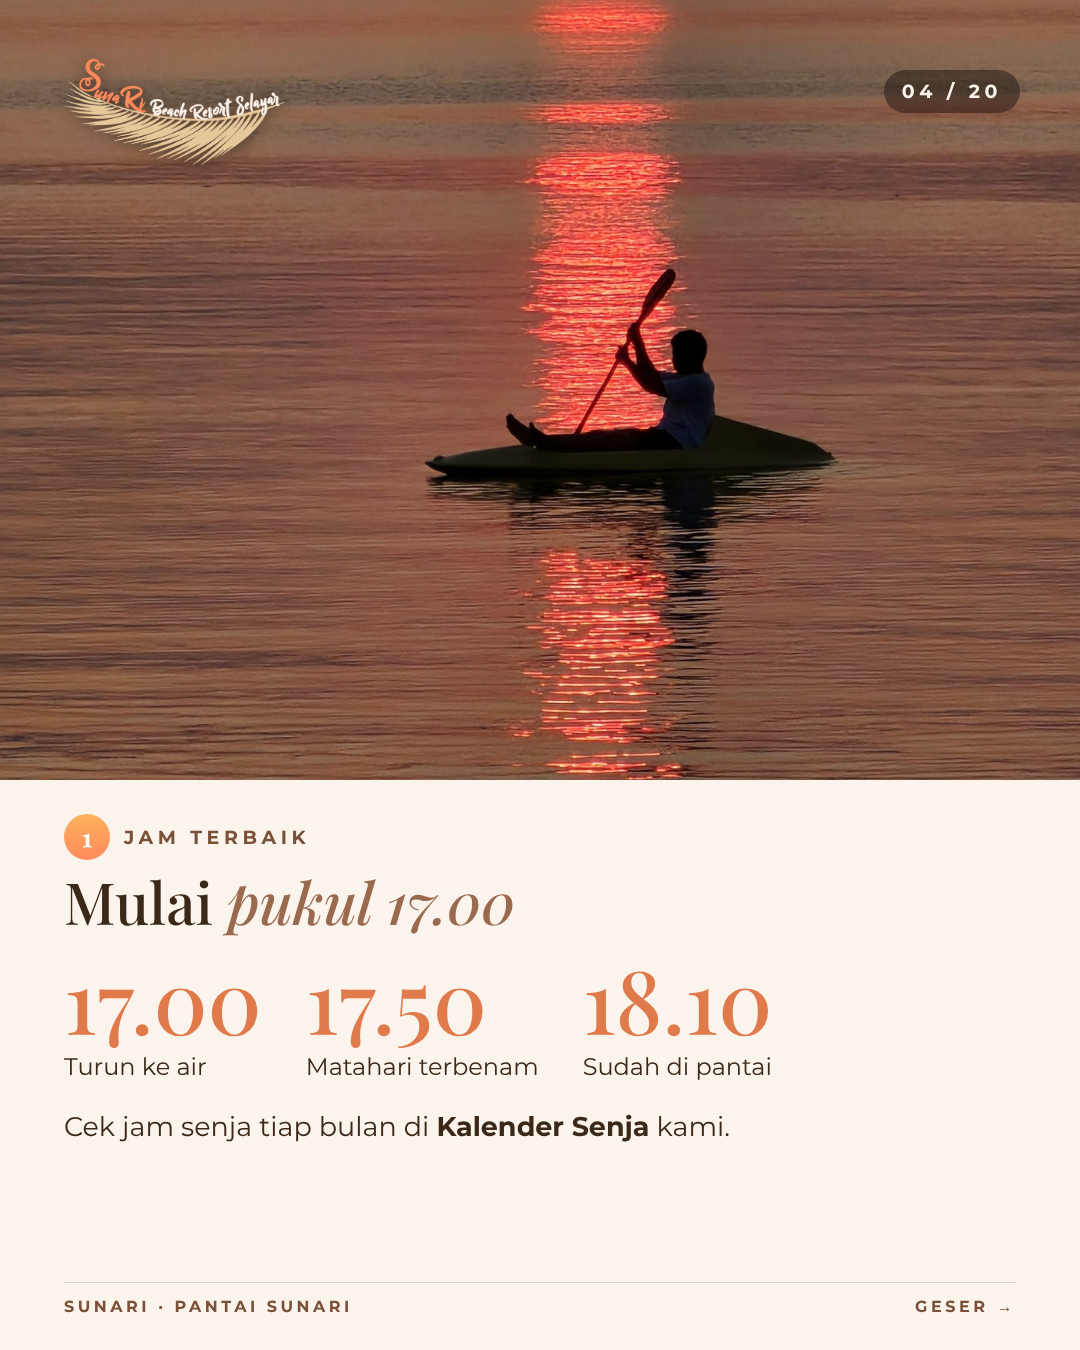
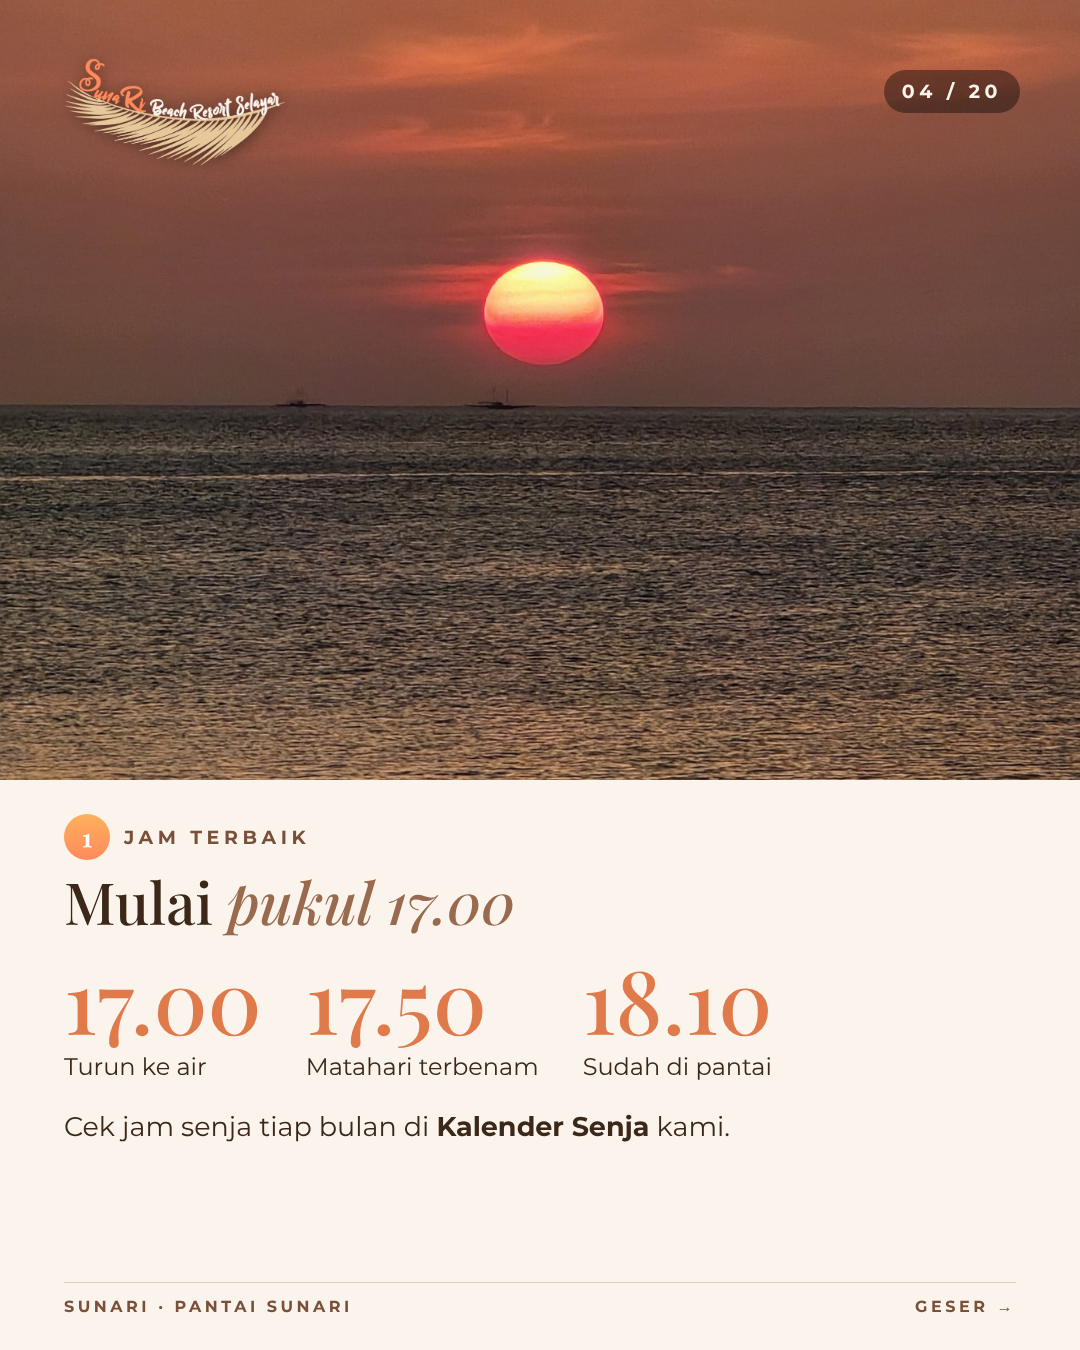
Kayak tips: new photo on slide 4
Claude-Session: https://claude.ai/code/session_01AizaiBQtsTmWERPRfEgVV4

diff --git a/social/kayak.html b/social/kayak.html
@@ -43,7 +43,7 @@ ul.k li i{flex:none;font-style:normal;color:#E07A4B;font-weight:700}
         <div style="background:#FFFDF9;border-radius:24px;padding:22px 24px"><div class="eb" style="font-size:16px">Single · 1 orang</div><div class="time" style="font-size:68px;margin-top:10px">Rp 50.000</div><div class="p" style="font-size:25px;margin-top:8px">Bebas mengatur arah &amp; ritme sendiri.</div></div>
         <div style="background:#FFFDF9;border-radius:24px;padding:22px 24px"><div class="eb" style="font-size:16px">Double · 2 orang</div><div class="time" style="font-size:68px;margin-top:10px">Rp 100.000</div><div class="p" style="font-size:25px;margin-top:8px">Cocok untuk pasangan, sahabat, atau orang tua + anak.</div></div></div>
     <div class="ft"><span>SunaRi · Pantai Sunari</span><span>Geser →</span></div></div></div><div class="t" id="kayak-04" style="background:#FBF4EC">
-  <div class="ph"><img src="../assets/photos/senja/03-kayak-matahari-merah.jpg" style="left:0px;width:1080px;object-position:50% 90%" alt=""></div>
+  <div class="ph"><img src="../assets/photos/senja/35-matahari-cakrawala-1751.jpg" style="left:0px;width:1080px;object-position:50% 62%" alt=""></div>
   <img class="logo" src="../assets/logo-sunari-color-dark.png" alt=""><div class="pg">04 / 20</div>
   <div class="panel"><div class="eb"><span class="no">1</span>Jam terbaik</div><div class="h">Mulai <i>pukul 17.00</i></div><div style="display:flex;gap:44px;margin-top:22px">
         <div><div class="time" style="font-size:88px">17.00</div><div class="p" style="font-size:24px;margin-top:6px">Turun ke air</div></div>

diff --git a/social/build_kayak.py b/social/build_kayak.py
@@ -71,7 +71,7 @@ slide(3, "senja/09-kayak-pasangan.jpg", "50% 52%", "Pilih kayakmu", 'Single atau
         <div style="background:#FFFDF9;border-radius:24px;padding:22px 24px"><div class="eb" style="font-size:16px">Double · 2 orang</div><div class="time" style="font-size:68px;margin-top:10px">Rp 100.000</div><div class="p" style="font-size:25px;margin-top:8px">Cocok untuk pasangan, sahabat, atau orang tua + anak.</div></div></div>''', pano=1)
 
 # 04 jam
-slide(4, "senja/03-kayak-matahari-merah.jpg", "50% 90%", "Jam terbaik", 'Mulai <i>pukul 17.00</i>',
+slide(4, "senja/35-matahari-cakrawala-1751.jpg", "50% 62%", "Jam terbaik", 'Mulai <i>pukul 17.00</i>',
       '''<div style="display:flex;gap:44px;margin-top:22px">
         <div><div class="time" style="font-size:88px">17.00</div><div class="p" style="font-size:24px;margin-top:6px">Turun ke air</div></div>
         <div><div class="time" style="font-size:88px">17.50</div><div class="p" style="font-size:24px;margin-top:6px">Matahari terbenam</div></div>
